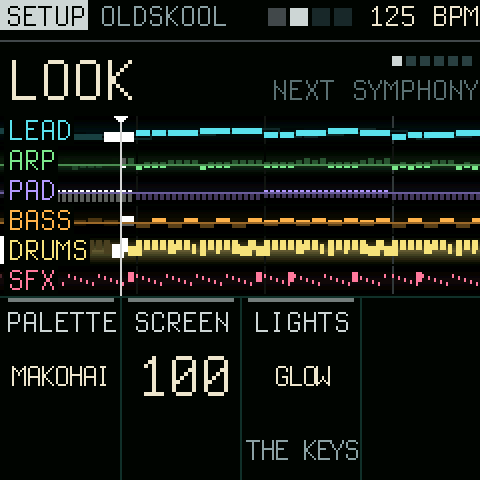
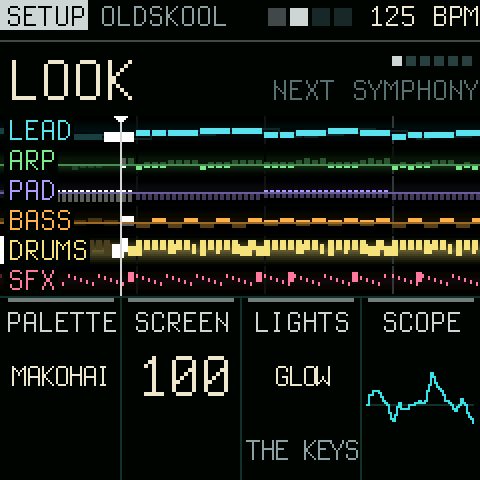
Pictures on SETUP's free knobs
SCOPE (the output's wave, held on a rising zero), LANES (a level per
lane), STEREO (left, right and the balance), SPECTRUM (what sounds, by
pitch), COPPER (raster bars that flash on the drums), STARS (a starfield
at the tempo) and MAKO (a fin crossing the sea). The audio interrupt only
keeps peaks and every 4th output sample; the screen reads them once a
frame and redraws the knob row while a picture shows.

Claude-Session: https://claude.ai/code/session_016qkHXEMEpD1LJg2Gca6rcm

Changed region(s): [[0.7812, 0.5938, 0.9688, 0.6875], [0.75, 0.7812, 1.0, 0.875]]

diff --git a/firmware/src/makohai_ui.c b/firmware/src/makohai_ui.c
@@ -194,7 +194,7 @@ static int32_t inst_eff(int32_t l) { return fxu[l].inst >= 0 ? fxu[l].inst : l =
 /* ---- the knobs' functions: turn, and the value (and a second line) as the cards show them */
 typedef void (*turn_fn)(int32_t d);
 typedef void (*val_fn)(char *o);
-typedef struct { const char *name; turn_fn turn; val_fn val, sub; } card_t;
+typedef struct { const char *name; turn_fn turn; val_fn val, sub; void (*draw)(int32_t x); } card_t;   /* draw: a picture instead */
 static int32_t clampi(int32_t v, int32_t a, int32_t b) { return v < a ? a : v > b ? b : v; }
 /* EDIT reaches your part's bars and the one right after it (writing there makes the part a bar longer), up to MAXB */
 static int32_t nav_bars(int32_t l) { return ln[l].up.bars < MAXB ? ln[l].up.bars + 1 : MAXB; }
@@ -537,6 +537,127 @@ static const card_t ROW_EDIT[5][4] = {
     {{"FROM", t_from, v_from, s_range}, {"TO", t_to, v_to, s_range}, {"PASTE", t_paste, v_paste, s_paste}, {"CLEAR", t_clear, v_clear, s_clear}}};
 static const char *const EDIT_PAGE[5] = {"NOTES", "FX", "PART", "BAR", "RANGE"};
 static int32_t edit_row, rec_on;                               /* the EDIT page; RECORD (REC on EDIT) */
+/* ---- the pictures on SETUP's free knobs: SCOPE (the output), LANES and STEREO (levels), SPECTRUM (what plays, by
+ * pitch), COPPER, STARS and MAKO (to look at). The sound is read once a frame (vis_prep), then drawn in both strips
+ * of the knob row; turning those knobs does nothing */
+#define VIS_Y (KNOB_Y + 20)
+#define VIS_H (KNOB_H - 24)
+#define VIS_W (COL_W - 6)
+static int16_t vis_sc[56];
+static int32_t vis_lane[NLANE], vis_out[2], vis_band[8];
+static uint32_t vis_t, vis_rng = 0x9E3779B9u;
+static int32_t star_x[24], star_y[24], star_z[24];
+static uint32_t vis_rand(void) { vis_rng ^= vis_rng << 13; vis_rng ^= vis_rng >> 17; vis_rng ^= vis_rng << 5; return vis_rng; }
+static int32_t vis_fall(int32_t now, int32_t was) { return now > was ? now : was * 13 / 16; }   /* up at once, down slowly */
+static void vis_prep(void)
+{
+    static const uint8_t KBAND[] = {0, 0, 0, 4, 7, 6, 1, 5, 7, 2, 5, 5, 4, 1, 3, 6, 6, 3, 5};   /* a drum's or a noise's band, by kind */
+    static int16_t snap[256];
+    int32_t b[8], trig = 0, l, k;
+    uint32_t w = scope_w, i;
+    vis_t++;
+    for (i = 0; i < 256u; i++) snap[i] = scope_buf[(w + i) & 255u];    /* oldest first */
+    for (i = 1; i < 144u; i++) if (snap[i - 1] < 0 && snap[i] >= 0) { trig = (int32_t)i; break; }   /* a rising zero: a still picture */
+    for (k = 0; k < 56; k++) vis_sc[k] = snap[trig + k * 2];
+    for (l = 0; l < (int32_t)NLANE; l++) { int32_t p = lane_pk[l]; lane_pk[l] = 0; vis_lane[l] = vis_fall(p, vis_lane[l]); }
+    for (k = 0; k < 2; k++) { int32_t p = out_pk[k]; out_pk[k] = 0; vis_out[k] = vis_fall(p, vis_out[k]); }
+    for (k = 0; k < 8; k++) b[k] = 0;
+    for (i = 0; i < NVOICE; i++) {                                       /* every voice that sounds, by its pitch */
+        const voice_t *x = &vc[i];
+        int32_t a = x->amp < 0 ? -x->amp : x->amp, band;
+        if (x->kind == V_OFF || x->kind >= sizeof KBAND) continue;
+        if (x->kind == V_FM) { uint32_t hz = x->inc / 97392u; band = hz < 80u ? 0 : hz < 160u ? 1 : hz < 320u ? 2 : hz < 640u ? 3 : hz < 1280u ? 4 : hz < 2560u ? 5 : hz < 5120u ? 6 : 7; }
+        else band = KBAND[x->kind];
+        b[band] += a;
+        if (band > 0) b[band - 1] += a / 3;
+        if (band < 7) b[band + 1] += a / 3;
+    }
+    for (k = 0; k < 8; k++) vis_band[k] = vis_fall(b[k], vis_band[k]);
+    for (k = 0; k < 24; k++) {                                           /* the stars fly out, faster with the tempo */
+        star_z[k] -= 1 + (int32_t)seq_bpm / 50;
+        if (star_z[k] <= 2 || star_x[k] * 24 / star_z[k] > VIS_W / 2 || star_x[k] * 24 / star_z[k] < -VIS_W / 2 ||
+            star_y[k] * 24 / star_z[k] > VIS_H / 2 || star_y[k] * 24 / star_z[k] < -VIS_H / 2 || star_z[k] > 64) {
+            star_x[k] = (int32_t)(vis_rand() % 61u) - 30; star_y[k] = (int32_t)(vis_rand() % 61u) - 30; star_z[k] = 40 + (int32_t)(vis_rand() % 24u);
+        }
+    }
+}
+static int32_t vis_h(int32_t v, int32_t full) { int32_t h = v * VIS_H / full; return h < 0 ? 0 : h > VIS_H ? VIS_H : h; }
+static void vis_scope(int32_t x)
+{
+    int32_t k, mid = VIS_Y + VIS_H / 2, prev = mid;
+    fill(x + 3, mid, VIS_W, 1, C_GRID);
+    for (k = 0; k < 56 && k < VIS_W; k++) {
+        int32_t y = mid - vis_sc[k] * (VIS_H / 2) / 24000, a, z;
+        if (y < VIS_Y) y = VIS_Y; else if (y > VIS_Y + VIS_H - 1) y = VIS_Y + VIS_H - 1;
+        a = k ? (prev < y ? prev : y) : y; z = k ? (prev > y ? prev : y) : y;      /* joined up, as a line */
+        fill(x + 3 + k, a, 1, z - a + 1, C_CYAN);
+        prev = y;
+    }
+}
+static void vis_lanes(int32_t x)
+{
+    int32_t r, bw = VIS_W / (int32_t)NLANE;
+    for (r = 0; r < (int32_t)NLANE; r++) {
+        int32_t l = LROW[r], h = vis_h(vis_lane[l], 16000);
+        fill(x + 3 + r * bw, VIS_Y, bw - 2, VIS_H, cscale(LCOL[l], 30));
+        fill(x + 3 + r * bw, VIS_Y + VIS_H - h, bw - 2, h, LCOL[l]);
+    }
+}
+static void vis_stereo(int32_t x)
+{
+    int32_t k, bw = VIS_W / 2 - 4, d, cx;
+    for (k = 0; k < 2; k++) {
+        int32_t h = vis_h(vis_out[k], 30000), bx = x + 3 + k * (VIS_W / 2 + 4);
+        fill(bx, VIS_Y, bw, VIS_H, C_GRID);
+        fill(bx, VIS_Y + VIS_H - h, bw, h, h > VIS_H * 9 / 10 ? RGBC(0xff7a5a) : C_CREAM);
+    }
+    d = vis_out[0] + vis_out[1];                                         /* the balance: a dot from left to right */
+    cx = x + 3 + (d ? vis_out[1] * (VIS_W - 1) / d : (VIS_W - 1) / 2);
+    fill(cx - 1, VIS_Y - 4, 3, 3, C_CYAN);
+}
+static void vis_spectrum(int32_t x)
+{
+    int32_t k, bw = VIS_W / 8;
+    for (k = 0; k < 8; k++) {
+        int32_t h = vis_h(vis_band[k], 30000), j;
+        for (j = 0; j < h; j += 3) fill(x + 3 + k * bw, VIS_Y + VIS_H - 2 - j, bw - 1, 2, j > VIS_H * 2 / 3 ? RGBC(0xff7a9a) : j > VIS_H / 3 ? RGBC(0xffb04a) : RGBC(0x7ee88c));
+    }
+}
+static void vis_copper(int32_t x)
+{
+    static const uint16_t SHADE[9] = {50, 90, 140, 200, 256, 200, 140, 90, 50};
+    int32_t k, j, hit = (int32_t)(fm1_ms - lane_hit_ms[L_DRUMS]) < 90 && seq_playing;
+    for (k = 0; k < 3; k++) {
+        int32_t c = VIS_Y + VIS_H / 2 - 4 + SIN[(vis_t * 9u + (uint32_t)k * 340u) & 1023u] * (VIS_H / 2 - 5) / 32768;
+        for (j = 0; j < 9; j++) fill(x + 1, c + j, COL_W - 2, 1, cscale(LCOL[LROW[k * 2]], SHADE[j] * (hit ? 5 : 4) / 4));
+    }
+}
+static void vis_stars(int32_t x)
+{
+    int32_t k, cx = x + COL_W / 2, cy = VIS_Y + VIS_H / 2;
+    for (k = 0; k < 24; k++) {
+        int32_t sx2 = cx + star_x[k] * 24 / star_z[k], sy2 = cy + star_y[k] * 24 / star_z[k], s = star_z[k] < 16 ? 2 : 1;
+        if (sx2 < x + 2 || sx2 > x + COL_W - 3 || sy2 < VIS_Y || sy2 > VIS_Y + VIS_H - 2) continue;
+        fill(sx2, sy2, s, s, star_z[k] < 24 ? C_CREAM : star_z[k] < 44 ? C_LIGHT : C_DIMG);
+    }
+}
+static void vis_mako(int32_t x)
+{
+    int32_t k, sea = VIS_Y + VIS_H * 2 / 3, span = VIS_W + 24, fx = x + 3 + (int32_t)(vis_t % (uint32_t)span) - 12;
+    int32_t bob = (int32_t)(fm1_ms - lane_hit_ms[L_BASS]) < 120 && seq_playing ? 2 : 0;
+    for (k = 0; k < 18; k++) {                                           /* the fin, swimming right: a straight back, a curved front */
+        int32_t y = sea - 18 + k - bob, x0 = fx, x1 = fx + 1 + k * 14 / 18 + (k * k) / 40;
+        if (x0 < x + 2) x0 = x + 2;
+        if (x1 > x + COL_W - 3) x1 = x + COL_W - 3;
+        if (x1 > x0) fill(x0, y, x1 - x0, 1, RGBC(0x6f8fa8));
+    }
+    for (k = 0; k < VIS_W; k++) {                                        /* the sea, rolling */
+        int32_t y = sea + SIN[((uint32_t)k * 40u + vis_t * 24u) & 1023u] * 2 / 32768;
+        fill(x + 3 + k, y, 1, VIS_Y + VIS_H - y, cscale(C_CYAN, 70));
+        fill(x + 3 + k, y, 1, 1, C_CYAN);
+    }
+}
+static void v_vis(char *o) { o[0] = 0; }
 /* SETUP (hold HOME): the look, the MIDI channels, the defaults */
 static int32_t setup_on, setup_row, reset_turns;
 static void defaults(void);
@@ -597,10 +718,10 @@ static void s_load(char *o) { s_cat(o, "OF 5.8MS"); }
 static void v_tr(char *o) { s_cat(o, "TURN"); }
 static void s_tr(char *o) { s_cat(o, "WORST"); }
 static const srow_t ROW_SETUP[] = {
-    {"LOOK", -1, {{"PALETTE", t_pal, v_pal, 0}, {"SCREEN", t_scr, v_scr, 0}, {"LIGHTS", t_glow, v_glow, s_glow}, {0, 0, 0, 0}}},
+    {"LOOK", -1, {{"PALETTE", t_pal, v_pal, 0}, {"SCREEN", t_scr, v_scr, 0}, {"LIGHTS", t_glow, v_glow, s_glow}, {"SCOPE", t_none, v_vis, 0, vis_scope}}},
     {"MIDI", -1, {{"LEAD", t_ch0, v_ch0, s_ch}, {"PAD", t_ch1, v_ch1, s_ch}, {"BASS", t_ch2, v_ch2, s_ch}, {"DRUMS", t_ch3, v_ch3, s_ch}}},
-    {"MIDI 2", -1, {{"ARP", t_ch5, v_ch5, s_ch}, {0, 0, 0, 0}, {0, 0, 0, 0}, {0, 0, 0, 0}}},
-    {"RESET", -1, {{"DEFAULTS", t_reset, v_reset, s_reset}, {0, 0, 0, 0}, {0, 0, 0, 0}, {0, 0, 0, 0}}},
+    {"MIDI 2", -1, {{"ARP", t_ch5, v_ch5, s_ch}, {"LANES", t_none, v_vis, 0, vis_lanes}, {"STEREO", t_none, v_vis, 0, vis_stereo}, {"SPECTRUM", t_none, v_vis, 0, vis_spectrum}}},
+    {"RESET", -1, {{"DEFAULTS", t_reset, v_reset, s_reset}, {"COPPER", t_none, v_vis, 0, vis_copper}, {"STARS", t_none, v_vis, 0, vis_stars}, {"MAKO", t_none, v_vis, 0, vis_mako}}},
     {"SYSTEM", -1, {{"STACK", t_none, v_stk, s_stk}, {"IRQ", t_none, v_irq, s_irq}, {"RAM", t_none, v_ram, s_free}, {"POOL", t_none, v_pool, s_free}}},
     {"AUDIO", -1, {{"WORST", t_isr, v_worst, s_msw}, {"AVERAGE", t_isr, v_avg, s_msw}, {"LOAD", t_isr, v_load, s_load}, {"RESET", t_isr, v_tr, s_tr}}},
 };
@@ -923,18 +1044,20 @@ static void draw_title(int force)
 static uint32_t knobs_hash;
 static void draw_knobs(int force)
 {
-    int32_t c, k;
+    int32_t c, k, pics = 0;
     uint32_t h = 2166136261u;
     char v[4][24], sb[4][24];
     for (c = 0; c < 4; c++) {
         int32_t lane; uint32_t i;
         const card_t *C = knob_card(c, &lane);
         card_text(C, lane, v[c], sb[c]);
+        if (C->name && C->draw) pics = 1;
         for (i = 0; v[c][i]; i++) h = (h ^ (uint8_t)v[c][i]) * 16777619u;
         for (i = 0; sb[c][i]; i++) h = (h ^ (uint8_t)sb[c][i]) * 16777619u;
         h = (h ^ (uint32_t)(uintptr_t)C ^ (uint32_t)(lane >= 0 ? ln[lane].mute : 0) << 3) * 16777619u;
     }
     h ^= (uint32_t)(last_enc * 131 + (fm1_ms - last_enc_ms < 1500u) + sel * 7919 + win * 104729 + grp * 31 + edit_on * 101 + setup_on * 3001 + setup_row * 17);
+    if (pics) { vis_prep(); h ^= vis_t * 2654435761u; }                /* a picture moves: every frame */
     if (!force && h == knobs_hash) return;
     knobs_hash = h;
     for (k = 0; k < 2; k++) {
@@ -954,6 +1077,7 @@ static void draw_knobs(int force)
             label = grp != G_SONG && !edit_on && !setup_on ? LNAME[lane] : C->name;
             if (tw(label, 1) <= COL_W - 2) textc(cx, KNOB_Y + 8, label, off ? cscale(col, 100) : col, 1);
             else text7(cx - tw7(label) / 2, KNOB_Y + 8, label, col);
+            if (C->draw) { C->draw(x); continue; }
             for (n = 0; val[n]; n++) ;
             if (n && val[n - 1] == '%') {                           /* a share: the number large, the bar */
                 val[--n] = 0;
@@ -970,6 +1094,7 @@ static void draw_knobs(int force)
             if (sb[c][0]) { if (tw7(sb[c]) > COL_W - 2) sb[c][8] = 0; text7(cx - tw7(sb[c]) / 2, KNOB_Y + 72, sb[c], off ? C_CREAM : C_MUTE); }
         }
         cs_end();
+        if (pics) platform_poll();
     }
 }
 

diff --git a/firmware/src/makohai_synth.c b/firmware/src/makohai_synth.c
@@ -195,6 +195,11 @@ static void room(int32_t *out, uint32_t n)
 }
 static int32_t f_low[NBUS], f_band[NBUS], crush_hold[NBUS], crush_n[NBUS], trem_g[NBUS];
 static int32_t pan_cl[NBUS], pan_cr[NBUS];                 /* each bus's pan gains as the last block ended (Q8) */
+/* for the pictures on SETUP (the screen reads them, a frame at a time): each lane's and the output's peak since the
+ * screen last looked, and the last 1024 samples of the output, every 4th one kept */
+static volatile int32_t lane_pk[NLANE], out_pk[2];
+static int16_t scope_buf[256];
+static volatile uint32_t scope_w;
 static const uint8_t AP_STEPS[8] = {0, 128, 64, 32, 16, 8, 4, 2};   /* PAN RATE: a sweep's cycle in 16ths */
 static uint32_t wob_ph[NLANE];
 static uint32_t lane_last_inc[NLANE][3];
@@ -996,6 +1001,7 @@ static void app_audio(int32_t *out, uint32_t n)
         } else trem_g[l] = 32768;
         for (k = 0; k < n; k++) {
             int32_t s = (bus[l][k] * lv) >> 8;
+            if (!(k & 3u) && (s < 0 ? -s : s) > lane_pk[BUS_LANE[l]]) lane_pk[BUS_LANE[l]] = s < 0 ? -s : s;   /* for LANES: every 4th */
             out[2u * k] += (s * (gl >> 16)) >> 8;
             out[2u * k + 1u] += (s * (gr >> 16)) >> 8;
             gl += dl; gr += dr;
@@ -1008,7 +1014,9 @@ static void app_audio(int32_t *out, uint32_t n)
         if (s > 23000) s = 23000 + ((s - 23000) >> 2); else if (s < -23000) s = -23000 + ((s + 23000) >> 2);
         if (s > 30000) s = 30000 + ((s - 30000) >> 3); else if (s < -30000) s = -30000 + ((s + 30000) >> 3);   /* and harder */
         out[k] = s;
+        if ((s < 0 ? -s : s) > out_pk[k & 1u]) out_pk[k & 1u] = s < 0 ? -s : s;
     }
+    for (k = 0; k < n; k += 4u) scope_buf[scope_w++ & 255u] = (int16_t)((out[2u * k] + out[2u * k + 1u]) >> 1);
     vis_step = seq_step;
     vis_frac = seq_step_len_q8 ? (seq_acc_q8 >> 8) * 65536u / (seq_step_len_q8 >> 8 ? seq_step_len_q8 >> 8 : 1u) : 0u;
     isr_us_last = (fm1_ticks() - t0) / FM1_TICKS_PER_US;

diff --git a/docs/MANUAL.md b/docs/MANUAL.md
@@ -63,12 +63,19 @@ Hold **HOME** for SETUP; HOME (or any group button, or EDIT) leaves it. PRESETS 
 
 | SETUP | KNOB 1 | KNOB 2 | KNOB 3 | KNOB 4 |
 | --- | --- | --- | --- | --- |
-| LOOK | palette: MAKOHAI (its colours), AMBER, GREEN, CYAN, RED, MONO | screen: 100, 75, 50 or 25 % | lights: the keys' and buttons' glow on or off | |
+| LOOK | palette: MAKOHAI (its colours), AMBER, GREEN, CYAN, RED, MONO | screen: 100, 75, 50 or 25 % | lights: the keys' and buttons' glow on or off | SCOPE (a picture) |
 | MIDI | the lead's channel | the pad's | the bass's | the drums' (1..16 or OFF) |
-| MIDI 2 | the arp's channel | | | |
-| RESET | defaults: five clicks to the right puts everything back as it comes (patterns cleared); SAVE keeps it | | | |
+| MIDI 2 | the arp's channel | LANES (a picture) | STEREO (a picture) | SPECTRUM (a picture) |
+| RESET | defaults: five clicks to the right puts everything back as it comes (patterns cleared); SAVE keeps it | COPPER (a picture) | STARS (a picture) | MAKO (a picture) |
 | SYSTEM | stack: free, of 23 K (the least it has had free since power-on) | the interrupts' stack: the same, of 7 K | RAM free | the pool free (the big buffers) |
 | AUDIO | the audio interrupt's worst time, µs | its average over the last half second | the worst as a share of the 5805 µs it has | any knob here starts the worst again |
+
+The pictures fill the knobs SETUP has no use for; turning those knobs does nothing. **SCOPE** draws the output's
+wave, held still on a rising zero as a tracker's scope does. **LANES** is a level meter per lane in its colour,
+**STEREO** the left and right output with a dot for the balance (it follows AUTOPAN and PAN RATE), **SPECTRUM** what
+sounds by pitch, from the bass on the left to the hats on the right. **COPPER** moves three raster bars and flashes
+them on the drums, **STARS** flies through a starfield at the tempo, and in **MAKO** a fin crosses the sea, bobbing
+on the bass.
 
 SAVE keeps the setup with everything else. SYSTEM and AUDIO only show; they are how a firmware that runs short of
 memory or time is caught before it crackles or crashes. In the browser, SYSTEM shows N/A (there is no FM-1 memory

diff --git a/README.md b/README.md
@@ -11,7 +11,8 @@ lines, melodies, drum patterns and noise in the manner of the S3M scene, played 
 glides, swells and an echo channel. You do not program steps; you mix styles. Queue the next style, blend it in lane by
 lane from the bottom up, or launch it at once with its own tempo. Shape each lane with a
 filter, a tempo-synced wobble, FM brightness and drive, or with tracker effects: slide, porta, vibrato, tremolo, tremor, gate, swing,
-retrigger, a bit crusher, echo, and an equal-power pan per lane with an autopan that sends each note to the other side or sweeps the lane in time. An arc builds the piece up from the drums to a drop, and DROP lets you call the break yourself.
+retrigger, a bit crusher, echo, and an equal-power pan per lane with an autopan that sends each note to the other side or sweeps the lane in time. An arc builds the piece up from the drums to a drop, and DROP lets you call the break yourself. SETUP's free knobs
+show pictures: a scope, level meters, a spectrum, copper bars, stars and a swimming mako.
 
 <p align="center"><img src="docs/screens/main.png" width="320" alt="Makohai's screen: the VOLUME setting, all six lanes of notes scrolling past a fixed play line, and the four knobs' values for lead, pad, bass and drums"></p>
 

diff --git a/docs/RELEASE.md b/docs/RELEASE.md
@@ -3,6 +3,7 @@ Since 1.0:
 - AUTOPAN and PAN RATE (TRACKER, after PAN): each new note on the other side of the lane's pan, or a slow sweep
   from side to side in time (8 bars to an 8th a cycle), as far as you set it.
 - Settings and sets saved by 1.0 are read and kept.
+- Pictures on SETUP's free knobs: SCOPE, LANES, STEREO, SPECTRUM, COPPER, STARS, MAKO.
 - A new identity, FM-1_47625642 (1.0 reported FM-1_960, as another firmware does), the same for every version: the FM-1 Firmware Hub tells Makohai apart by it.
 
 Makohai 1.0 (formerly Espada): the first release of a generative groovebox for the M-VAVE FM-1 in the style of early-90s PC tracker music.
